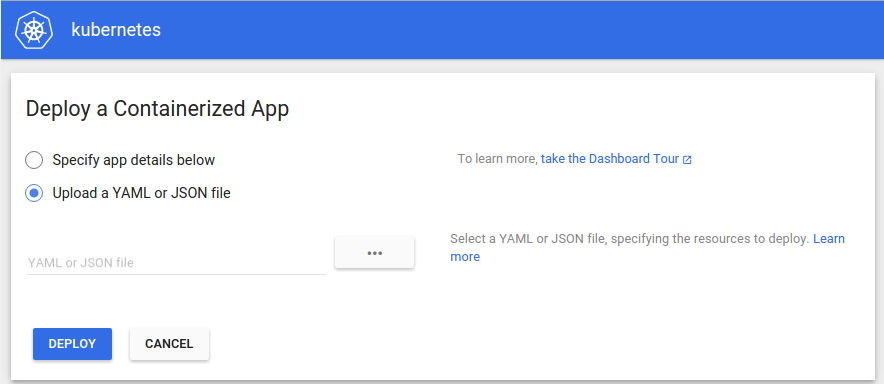
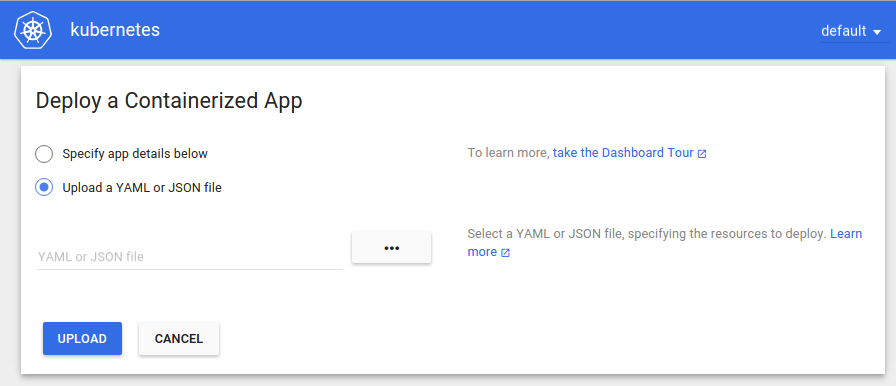
Update dashboard documentaion.

diff --git a/docs/user-guide/ui.md b/docs/user-guide/ui.md
@@ -2,48 +2,82 @@
 ---
 
 
-Kubernetes has a web-based user interface that allows you to deploy containerized
-applications to a Kubernetes cluster, troubleshoot them, and manage the cluster itself.
+Dashboard (the web-based user interface of Kubernetes) allows you to deploy containerized applications to a Kubernetes cluster, troubleshoot them, and manage the cluster and its resources itself. You can use it for getting an overview of applications running on the cluster, as well as for creating or modifying individual Kubernetes resources and workloads, such as Daemon sets, Pet sets, Replica sets, Jobs, Replication controllers and corresponding Services, or Pods.
 
-By default, the Kubernetes Dashboard is deployed as a cluster addon. It is enabled by default in Kubernetes 1.2 clusters. Click [here](/docs/user-guide/ui-access/) to learn more about the Dashboard access.
+Dashboard also provides information on the state of Pods, Replication controllers, etc. and on any errors that might have occurred. You can inspect and manage the Kubernetes resources, as well as your deployed containerized applications. You can also change the number of replicated Pods, delete Pods, and deploy new applications using a deploy wizard.
 
-## Using the Dashboard
+By default, Dashboard is installed as a cluster addon. It is enabled by default as of Kubernetes 1.2 clusters.
 
-The Dashboard can be used to get an overview of applications running on the cluster, and to provide information on any errors that have occurred. You can also inspect your replication controllers and corresponding services, change the number of replicated Pods, and deploy new applications using a deploy wizard.
+* TOC
+{:toc}
 
-When accessing the Dashboard on an empty cluster for the first time, the Welcome page is displayed. This page contains a link to this document as well as a button to deploy your first application. In addition, you can view which system applications are running by default in the `kube-system` [namespace](/docs/admin/namespaces/) of your cluster, for example monitoring applications such as Heapster.
+## Dashboard access
+
+Navigate in your Browser to the following URL:
+```
+https://<kubernetes-master>/ui
+```
+This redirects to the following URL:
+```
+https://<kubernetes-master>/api/v1/proxy/namespaces/kube-system/services/kubernetes-dashboard
+```
+The Dashboard UI lives in the `kube-system` [namespace](/docs/admin/namespaces/), but shows all resources from all namespaces in your environment.
+
+If you find that you are not able to access Dashboard, you can install and open the latest stable release by running the following command:
+
+```
+kubectl create -f https://rawgit.com/kubernetes/dashboard/master/src/deploy/kubernetes-dashboard.yaml
+```
+
+Then, navigate to
+
+```
+https://<kubernetes-master>/ui
+```
+
+In case you have to provide a password, use the following command to find it out:
+
+```
+kubectl config view
+```
+
+## Welcome page
+
+When accessing Dashboard on an empty cluster for the first time, the Welcome page is displayed. This page contains a link to this document as well as a button to deploy your first application. In addition, you can view which system applications are running by **default** in the `kube-system` [namespace](/docs/admin/namespaces/) of your cluster, for example monitoring applications such as Heapster.
 
 ![Kubernetes Dashboard welcome page](/images/docs/ui-dashboard-zerostate.png)
 
-### Deploying applications
+## Deploying containerized applications
 
-The Dashboard lets you create and deploy a containerized application as a Replication Controller with a simple wizard:
+Dashboard lets you create and deploy a containerized application as a Replication Controller and corresponding Service with a simple wizard. You can either manually specify application details, or upload a YAML or JSON file containing the required information.
 
-![Kubernetes Dashboard deploy form](/images/docs/ui-dashboard-deploy-simple.png)
+To access the deploy wizard from the Welcome page, click the respective button. To access the wizard at a later point in time, click the **DEPLOY APP** or **UPLOAD YAML** link in the upper right corner of any page listing workloads.
 
-#### Specifying application details
+![Deploy wizard](/images/docs/ui-dashboard-deploy-simple.png)
 
-The wizard expects that you provide the following information:
+### Specifying application details
+
+The deploy wizard expects that you provide the following information:
 
 - **App name** (mandatory): Name for your application. A [label](/docs/user-guide/labels/) with the name will be added to the Replication Controller and Service, if any, that will be deployed.
 
-  The application name must be unique within the selected Kubernetes [namespace](/docs/admin/namespaces/). It must start with a lowercase character, and contain only lowercase letters, numbers and dashes (-). It is limited to 24 characters.
+  The application name must be unique within the selected Kubernetes [namespace](/docs/admin/namespaces/). It must start and end with a lowercase character, and contain only lowercase letters, numbers and dashes (-). It is limited to 24 characters. Leading and trailing spaces are ignored.
 
-- **Container image** (mandatory): The URL of a public Docker [container image](/docs/user-guide/images/) on any registry, or a private image (commonly hosted on the Google Container Registry or Docker Hub).
+- **Container image** (mandatory): The URL of a public Docker [container image](/docs/user-guide/images/) on any registry, or a private image (commonly hosted on the Google Container Registry or Docker Hub). The container image specification must end with a colon.
 
 - **Number of pods** (mandatory): The target number of Pods you want your application to be deployed in. The value must be a positive integer.
 
   A [Replication Controller](/docs/user-guide/replication-controller/) will be created to maintain the desired number of Pods across your cluster.
 
-- **Ports** (optional): If your container listens on a port, you can provide a port and target port. The wizard will create a corresponding Kubernetes [Service](http://kubernetes.io/v1.1/docs/user-guide/services.html) which will route to your deployed Pods. Supported protocols are TCP and UDP. In case you specify ports, the internal DNS name for this Service will be the value you specified as application name above.
+- **Service** (optional): For some parts of your application (e.g. frontends) you may want to expose a [Service](http://kubernetes.io/docs/user-guide/services/) onto an external, maybe public IP address outside of your cluster (external Service). For external Services, you may need to open up one or more ports to do so. Find more details [here](/docs/user-guide/services-firewalls/).
 
-  Be aware that if you specify ports, you need to provide both port and target port.
+  Other Services that are only visible from inside the cluster are called internal Services.
 
-- For some parts of your application (e.g. frontends), you can expose the Service onto an external, maybe public IP address by selecting the **Expose service externally** option. You may need to open up one or more ports to do so. Find more details [here](/docs/user-guide/services-firewalls/).
+  Irrespective of the Service type, if you choose to create a Service and your container listens on a port (incoming), you need to specify two ports. The Service will be created mapping the port (incoming) to the target port seen by the container. This Service will route to your deployed Pods. Supported protocols are TCP and UDP. The internal DNS name for this Service will be the value you specified as application name above.
 
 If needed, you can expand the **Advanced options** section where you can specify more settings:
 
-![Kubernetes Dashboard deploy form advanced options](/images/docs/ui-dashboard-deploy-more.png)
+![Deploy wizard advanced options](/images/docs/ui-dashboard-deploy-more.png)
 
 - **Description**: The text you enter here will be added as an [annotation](/docs/user-guide/annotations/) to the Replication Controller and displayed in the application's details.
 
@@ -58,63 +92,111 @@ environment=pod
 track=stable
 ```
 
-- **Kubernetes namespace**: Kubernetes supports multiple virtual clusters backed by the same physical cluster. These virtual clusters are called [namespaces](/docs/admin/namespaces/). They let you partition resources into logically named groups.
+- **Namespace**: Kubernetes supports multiple virtual clusters backed by the same physical cluster. These virtual clusters are called [namespaces](/docs/admin/namespaces/). They let you partition resources into logically named groups.
 
-  The Dashboard offers all available namespaces in a dropdown list and allows you to create a new namespace. The namespace name may contain alphanumeric characters and dashes (-).
+  Dashboard offers all available namespaces in a dropdown list, and allows you to create a new namespace. The namespace name may contain a maximum of 63 alphanumeric characters and dashes (-).
 
-- **Image pull secrets**: In case the Docker container image is private, it may require [pull secret](/docs/user-guide/secrets/) credentials.
+  In case the creation of the namespace is successful, it is selected by default. If the creation fails, the first namespace is selected.
 
-  The Dashboard offers all available secrets in a dropdown list, and allows you to create a new secret. The secret name must follow the DNS domain name syntax, e.g. `new.image-pull.secret`. The content of a secret must be base24-encoded and specified in a  [`.dockercfg`](/docs/user-guide/images/#specifying-imagepullsecrets-on-a-pod) file.
+- **Image Pull Secret**: In case the specified Docker container image is private, it may require [pull secret](/docs/user-guide/secrets/) credentials.
 
-- **CPU requirement** and **Memory requirement**: You can specify the minimum [resource limits](/docs/admin/limitrange/) for the container. By default, Pods run with unbounded CPU and memory limits.
+  Dashboard offers all available secrets in a dropdown list, and allows you to create a new secret. The secret name must follow the DNS domain name syntax, e.g. `new.image-pull.secret`. The content of a secret must be base24-encoded and specified in a  [`.dockercfg`](/docs/user-guide/images/#specifying-imagepullsecrets-on-a-pod) file. The secret name may consist of a maximum of 253 characters.
 
-- **Run command** and **Run command arguments**: By default, your containers run the selected Docker image's default [entrypoint command](/docs/user-guide/containers/#containers-and-commands). You can use the command options and arguments to override the default.
+  In case the creation of the image pull secret is successful, it is selected by default. If the creation fails, no secret is applied.
+
+- **CPU requirement (cores)** and **Memory requirement (MiB)**: You can specify the minimum [resource limits](/docs/admin/limitrange/) for the container. By default, Pods run with unbounded CPU and memory limits.
+
+- **Run command** and **Run command arguments**: By default, your containers run the specified Docker image's default [entrypoint command](/docs/user-guide/containers/#containers-and-commands). You can use the command options and arguments to override the default.
 
 - **Run as privileged**: This setting determines whether processes in [privileged containers](/docs/user-guide/pods/#privileged-mode-for-pod-containers) are equivalent to processes running as root on the host. Privileged containers can make use of capabilities like manipulating the network stack and accessing devices.
 
-- **Environment variables**: Kubernetes exposes Services through [environment variables](https://github.com/kubernetes/kubernetes/tree/{{page.githubbranch}}/docs/design/expansion.md). You can compose environment variable or pass arguments to your commands using the values of environnment variables. They can be used in applications to find a Service. Environment variables are also useful for decreasing coupling and the use of workarounds. Values can reference other variables using the `$(VAR_NAME)` syntax.
+- **Environment variables**: Kubernetes exposes Services through [environment variables](http://kubernetes.io/docs/user-guide/environment-guide/). You can compose environment variable or pass arguments to your commands using the values of environment variables. They can be used in applications to find a Service. Values can reference other variables using the `$(VAR_NAME)` syntax.
 
-#### Uploading a YAML or JSON file
+### Uploading a YAML or JSON file
 
-Kubernetes supports declarative configuration. In this style, all configuration is stored in YAML or JSON configuration files using the Kubernetes' [API](http://kubernetes.io/v1.1/docs/api.html) resource schemas as the configuration schemas.
+Kubernetes supports declarative configuration. In this style, all configuration is stored in YAML or JSON configuration files using the Kubernetes' [API](http://kubernetes.io/docs/api/) resource schemas as the configuration schemas.
 
 As an alternative to specifying application details in the deploy wizard, you can define your Replication Controllers and Services in YAML or JSON files, and upload the files to your Pods:
 
-![Kubernetes Dashboard deploy from file upload](/images/docs/ui-dashboard-deploy-file.png)
+![Deploy wizard file upload](/images/docs/ui-dashboard-deploy-file.png)
 
-### Applications view
+## Managing resources
 
-As soon as applications are running on your cluster, the initial view of the Dashboard defaults to showing an overview of them, for example:
+### List view
 
-![Kubernetes Dashboard applications view](/images/docs/ui-dashboard-rcs.png)
+As soon as applications are running on your cluster, Dashboard's initial view defaults to showing all resources available in all namespaces in a list view, for example:
 
-Individual applications are shown as cards - where an application is defined as a Replication Controller and its corresponding Services. Each card shows the current number of running and desired replicas, along with errors reported by Kubernetes, if any.
+![Workloads view](/images/docs/ui-dashboard-workloadview.png)
 
-You can view application details (**View details**), make quick changes to the number of replicas (**Edit pod count**) or delete the application directly (**Delete**) from the menu in each card's corner:
+For every resource, the list view shows the following information:
 
-![Kubernetes Dashboard deploy form file upload](/images/docs/ui-dashboard-cards-menu.png)
+* Name of the resource
+* All labels assigned to the resource
+* Number of pods assigned to the resource
+* Age, i.e. amount of time passed since the resource has been created
+* Docker container image
 
-#### View details
+To filter the resources and only show those of a specific namespace, select it from the dropdown list in the right corner of the title bar:
 
-Selecting this option from the card menu will take you to the following page where you can view more information about the Pods that make up your application:
+![Namespace selector](/images/docs/ui-dashboard-namespace.png)
 
-![Kubernetes Dashboard application detail](/images/docs/ui-dashboard-rcs-detail.png)
+### Details view
 
-The **EVENTS** tab can be useful for debugging flapping applications.
+When clicking a resource, the details view is opened, for example:
 
-Clicking the plus sign in the right corner of the screen leads you back to the page for deploying a new application.
+![Details view](/images/docs/ui-dashboard-detailsview.png)
 
-#### Edit pod count
+The **OVERVIEW** tab shows the actual resource details as well as the Pods the resource is running in.
 
-If you choose to change the number of Pods, the respective Replication Controller will be updated to reflect the newly specified number.
+The **EVENTS** tab can be useful for debugging applications.
 
-#### Delete
+To go back to the workloads overview, click the Kubernetes logo.
 
-Deleting a Replication Controller also deletes the Pods managed by it. It is currently not supported to leave the Pods running.
+### Workload categories
 
-You have the option to also delete Services related to the Replication Controller if the label selector targets only the Replication Controller to be deleted.
+Workloads are categorized as follows:
 
-## More Information
+* [Daemon Sets](http://kubernetes.io/docs/admin/daemons/) which ensure that all or some of the nodes in your cluster run a copy of a Pod.  
+* [Deployments](http://kubernetes.io/docs/user-guide/deployments/) which provide declarative updates for Pods and Replica Sets (the next-generation [Replication Controller](http://kubernetes.io/docs/user-guide/replication-controller/))
+  The Details page for a Deployment lists resource details, as well as new and old Replica Sets. The resource details also include information on the [RollingUpdate](http://kubernetes.io/docs/user-guide/rolling-updates/) strategy, if any.
+* [Pet Sets](http://kubernetes.io/docs/user-guide/load-balancer/) (nominal Services, also known as load-balanced Services) for legacy application support.
+* [Replica Sets](http://kubernetes.io/docs/user-guide/replicasets/) for using label selectors.
+* [Jobs](http://kubernetes.io/docs/user-guide/jobs/) for creating one or more Pods, ensuring that a specified number of them successfully terminate, and tracking the completions.
+* [Replication Controllers](http://kubernetes.io/docs/user-guide/replication-controller/)
+* [Pods](http://kubernetes.io/docs/user-guide/pods/)
+
+You can display the resources of a specific category in two ways:
+
+* Click the category name, e.g. **Deployments**
+* Edit the Dashboard URL and add the name of a desired category. For example, to display the list of Replication Controllers, specify the following URL:
+
+  ```
+http://<your_host>:9090/#/replicationcontroller
+```
+
+### Actions
+
+Every list view offers an action menu to the right of the listed resources. The related details view provides the same actions as buttons in the upper right corner of the page.
+
+* **Edit**
+
+  Opens a text editor so that you can instantly view or update the JSON or YAML file of the respective resource.
+
+* **Delete**
+
+  After confirmation, deletes the respective resource.
+
+  When deleting a Replication Controller, the Pods managed by it are also deleted. You have the option to also delete Services related to the Replication Controller.
+
+* **View details**
+
+  For Replication Controllers only. Takes you to the details page where you can view more information about the Pods that make up your application.
+
+* **Scale**
+
+  For Replication Controllers only. Changes the number of Pods your application runs in. The respective Replication Controller will be updated to reflect the newly specified number. Be aware that setting a high number of Pods may result in a decrease of performance of the cluster or Dashboard itself.
+
+## More information
 
 For more information, see the
 [Kubernetes Dashboard repository](https://github.com/kubernetes/dashboard).
